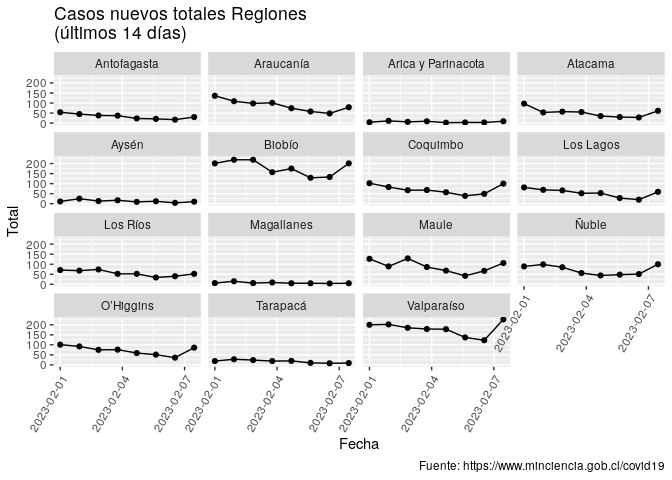
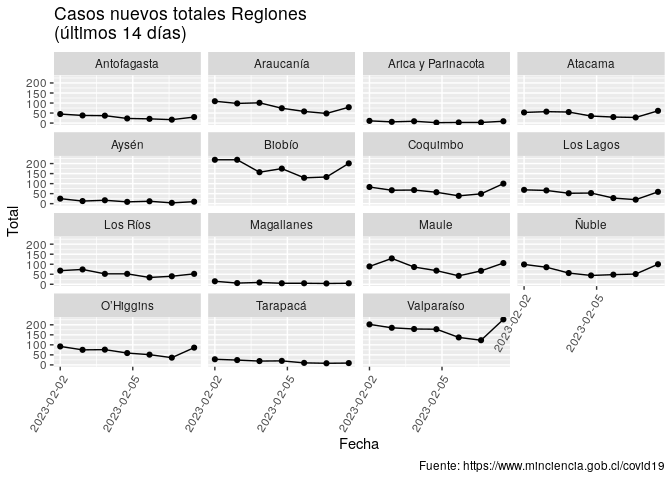
Re-build Rmarkdown files

diff --git a/README.md b/README.md
@@ -3,7 +3,7 @@
 
 Ejemplo de uso de total\_casos de COVID recopilados por el Ministerio de
 Ciencia de Chile <https://www.minciencia.gob.cl/covid19>. Última
-actualización: 2023-02-14
+actualización: 2023-02-15
 
 ## Visualización desde el comienzo de la pandemia
 
